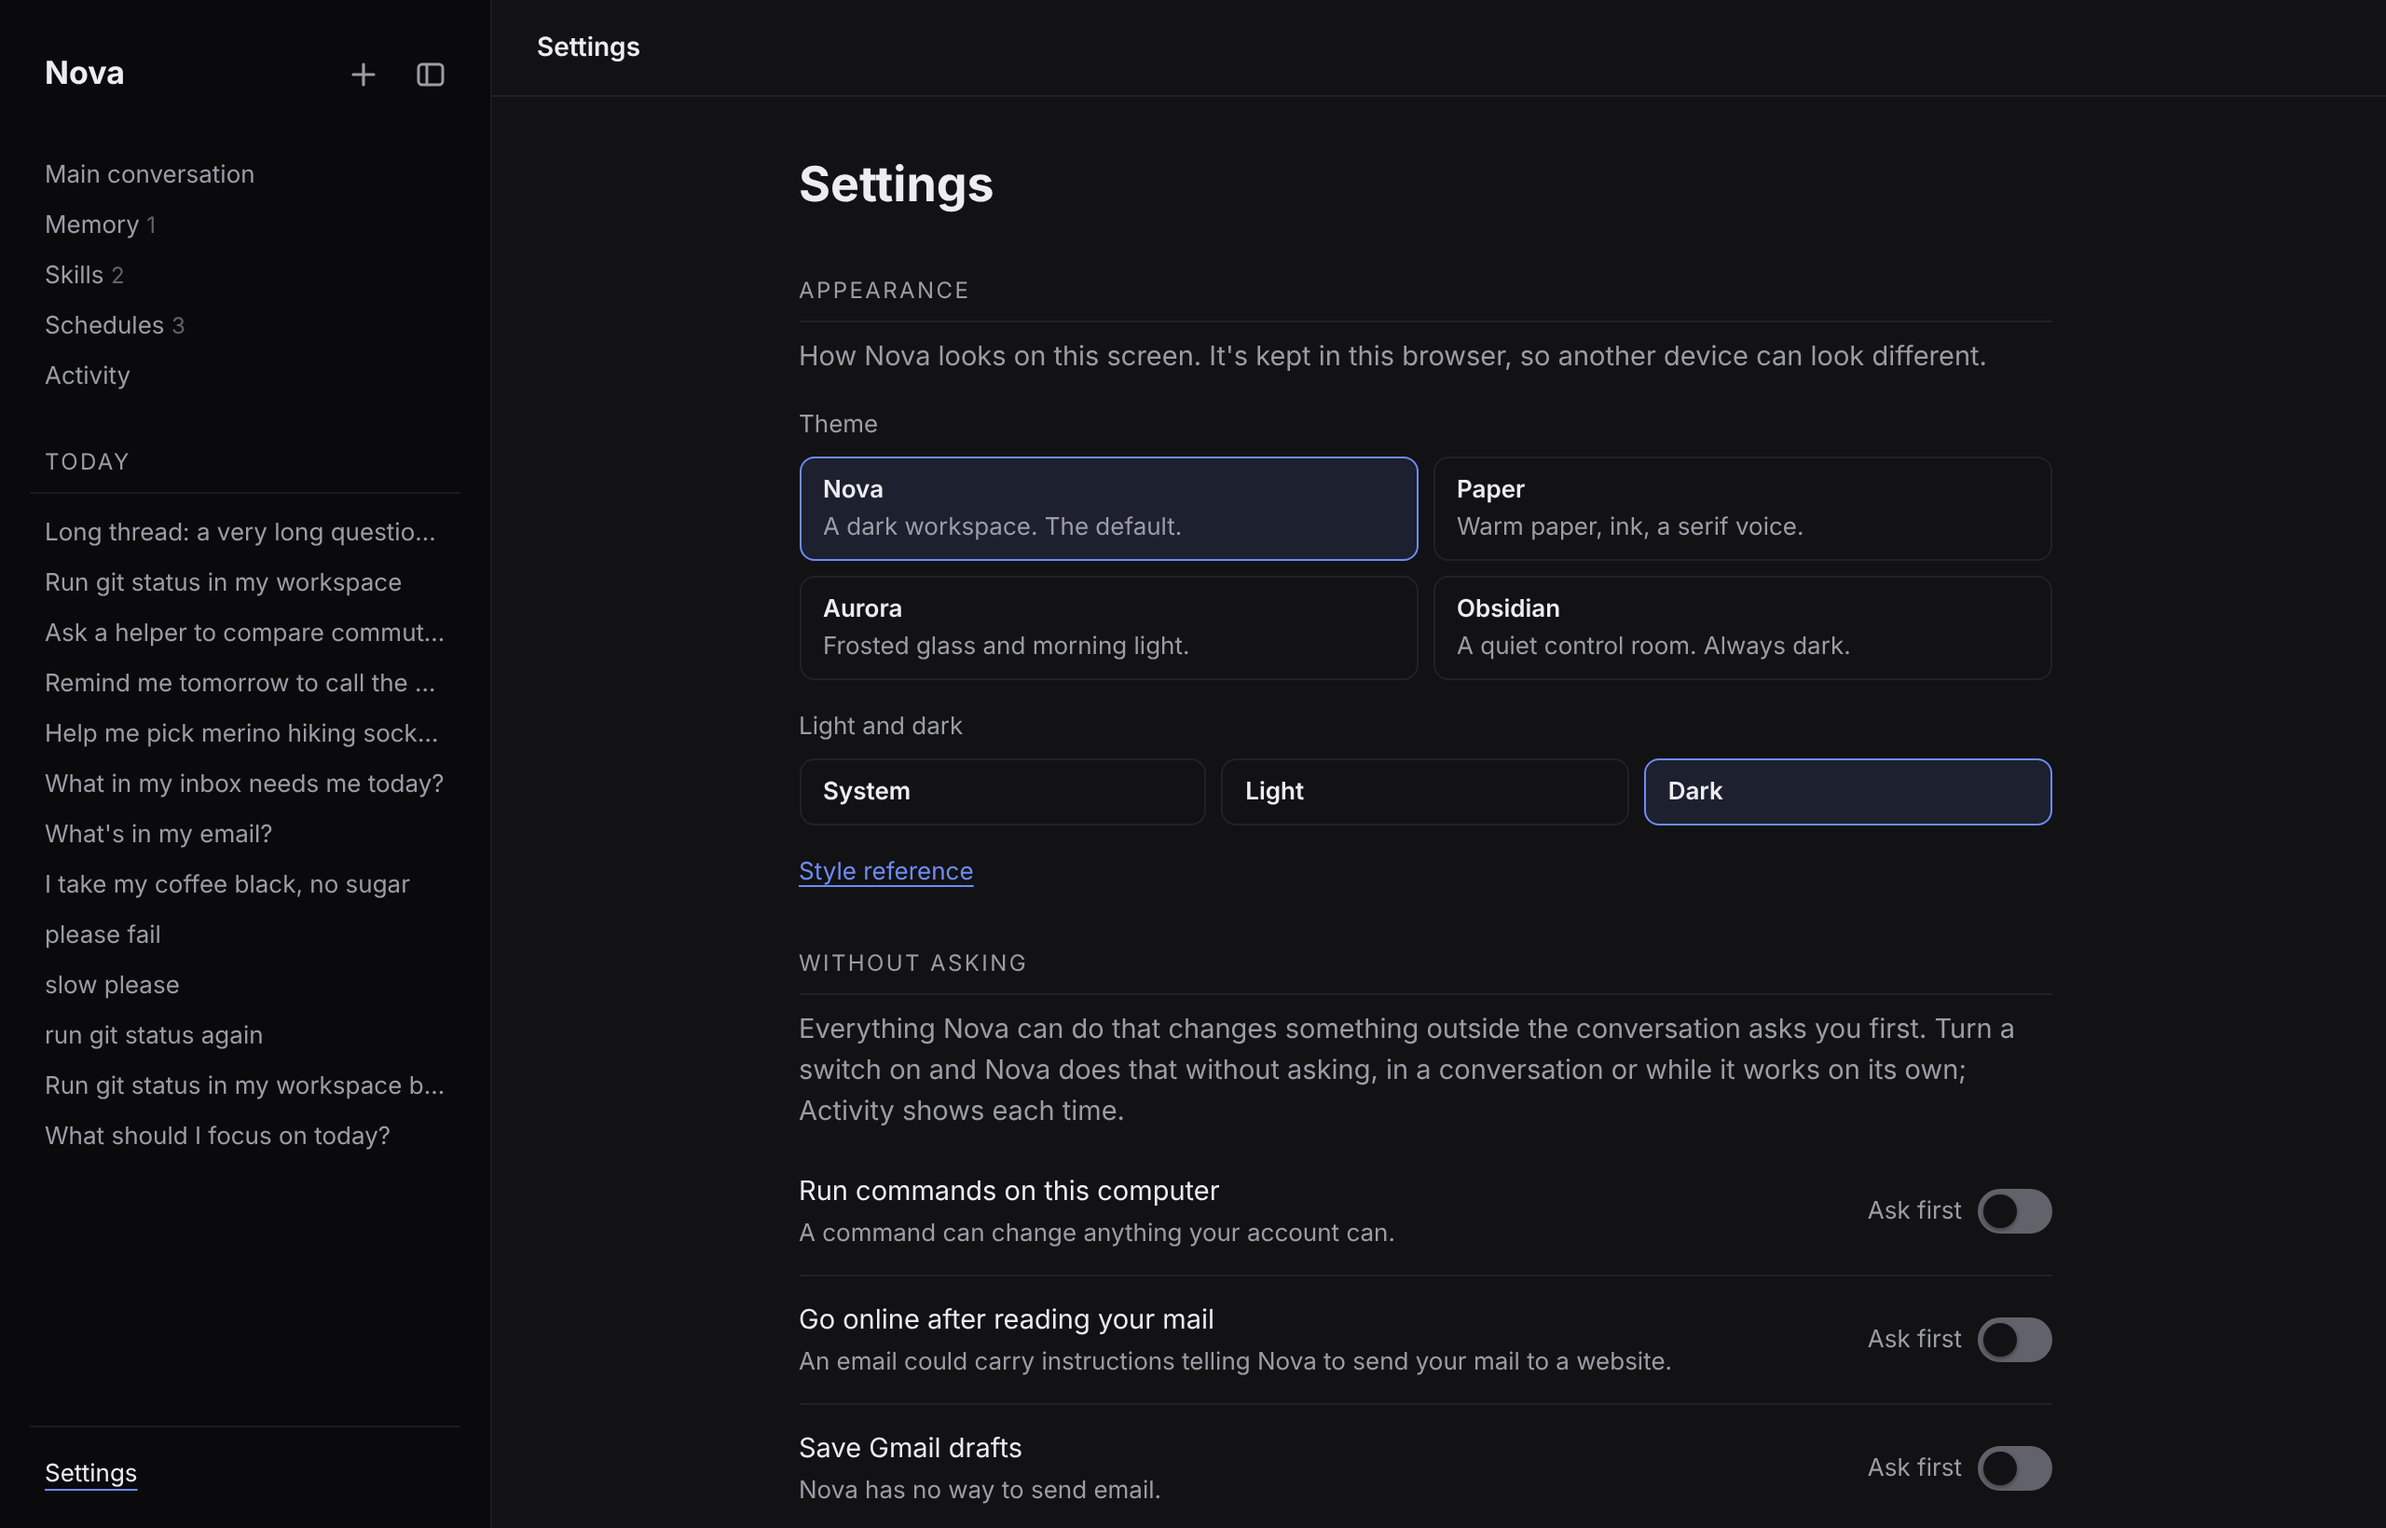
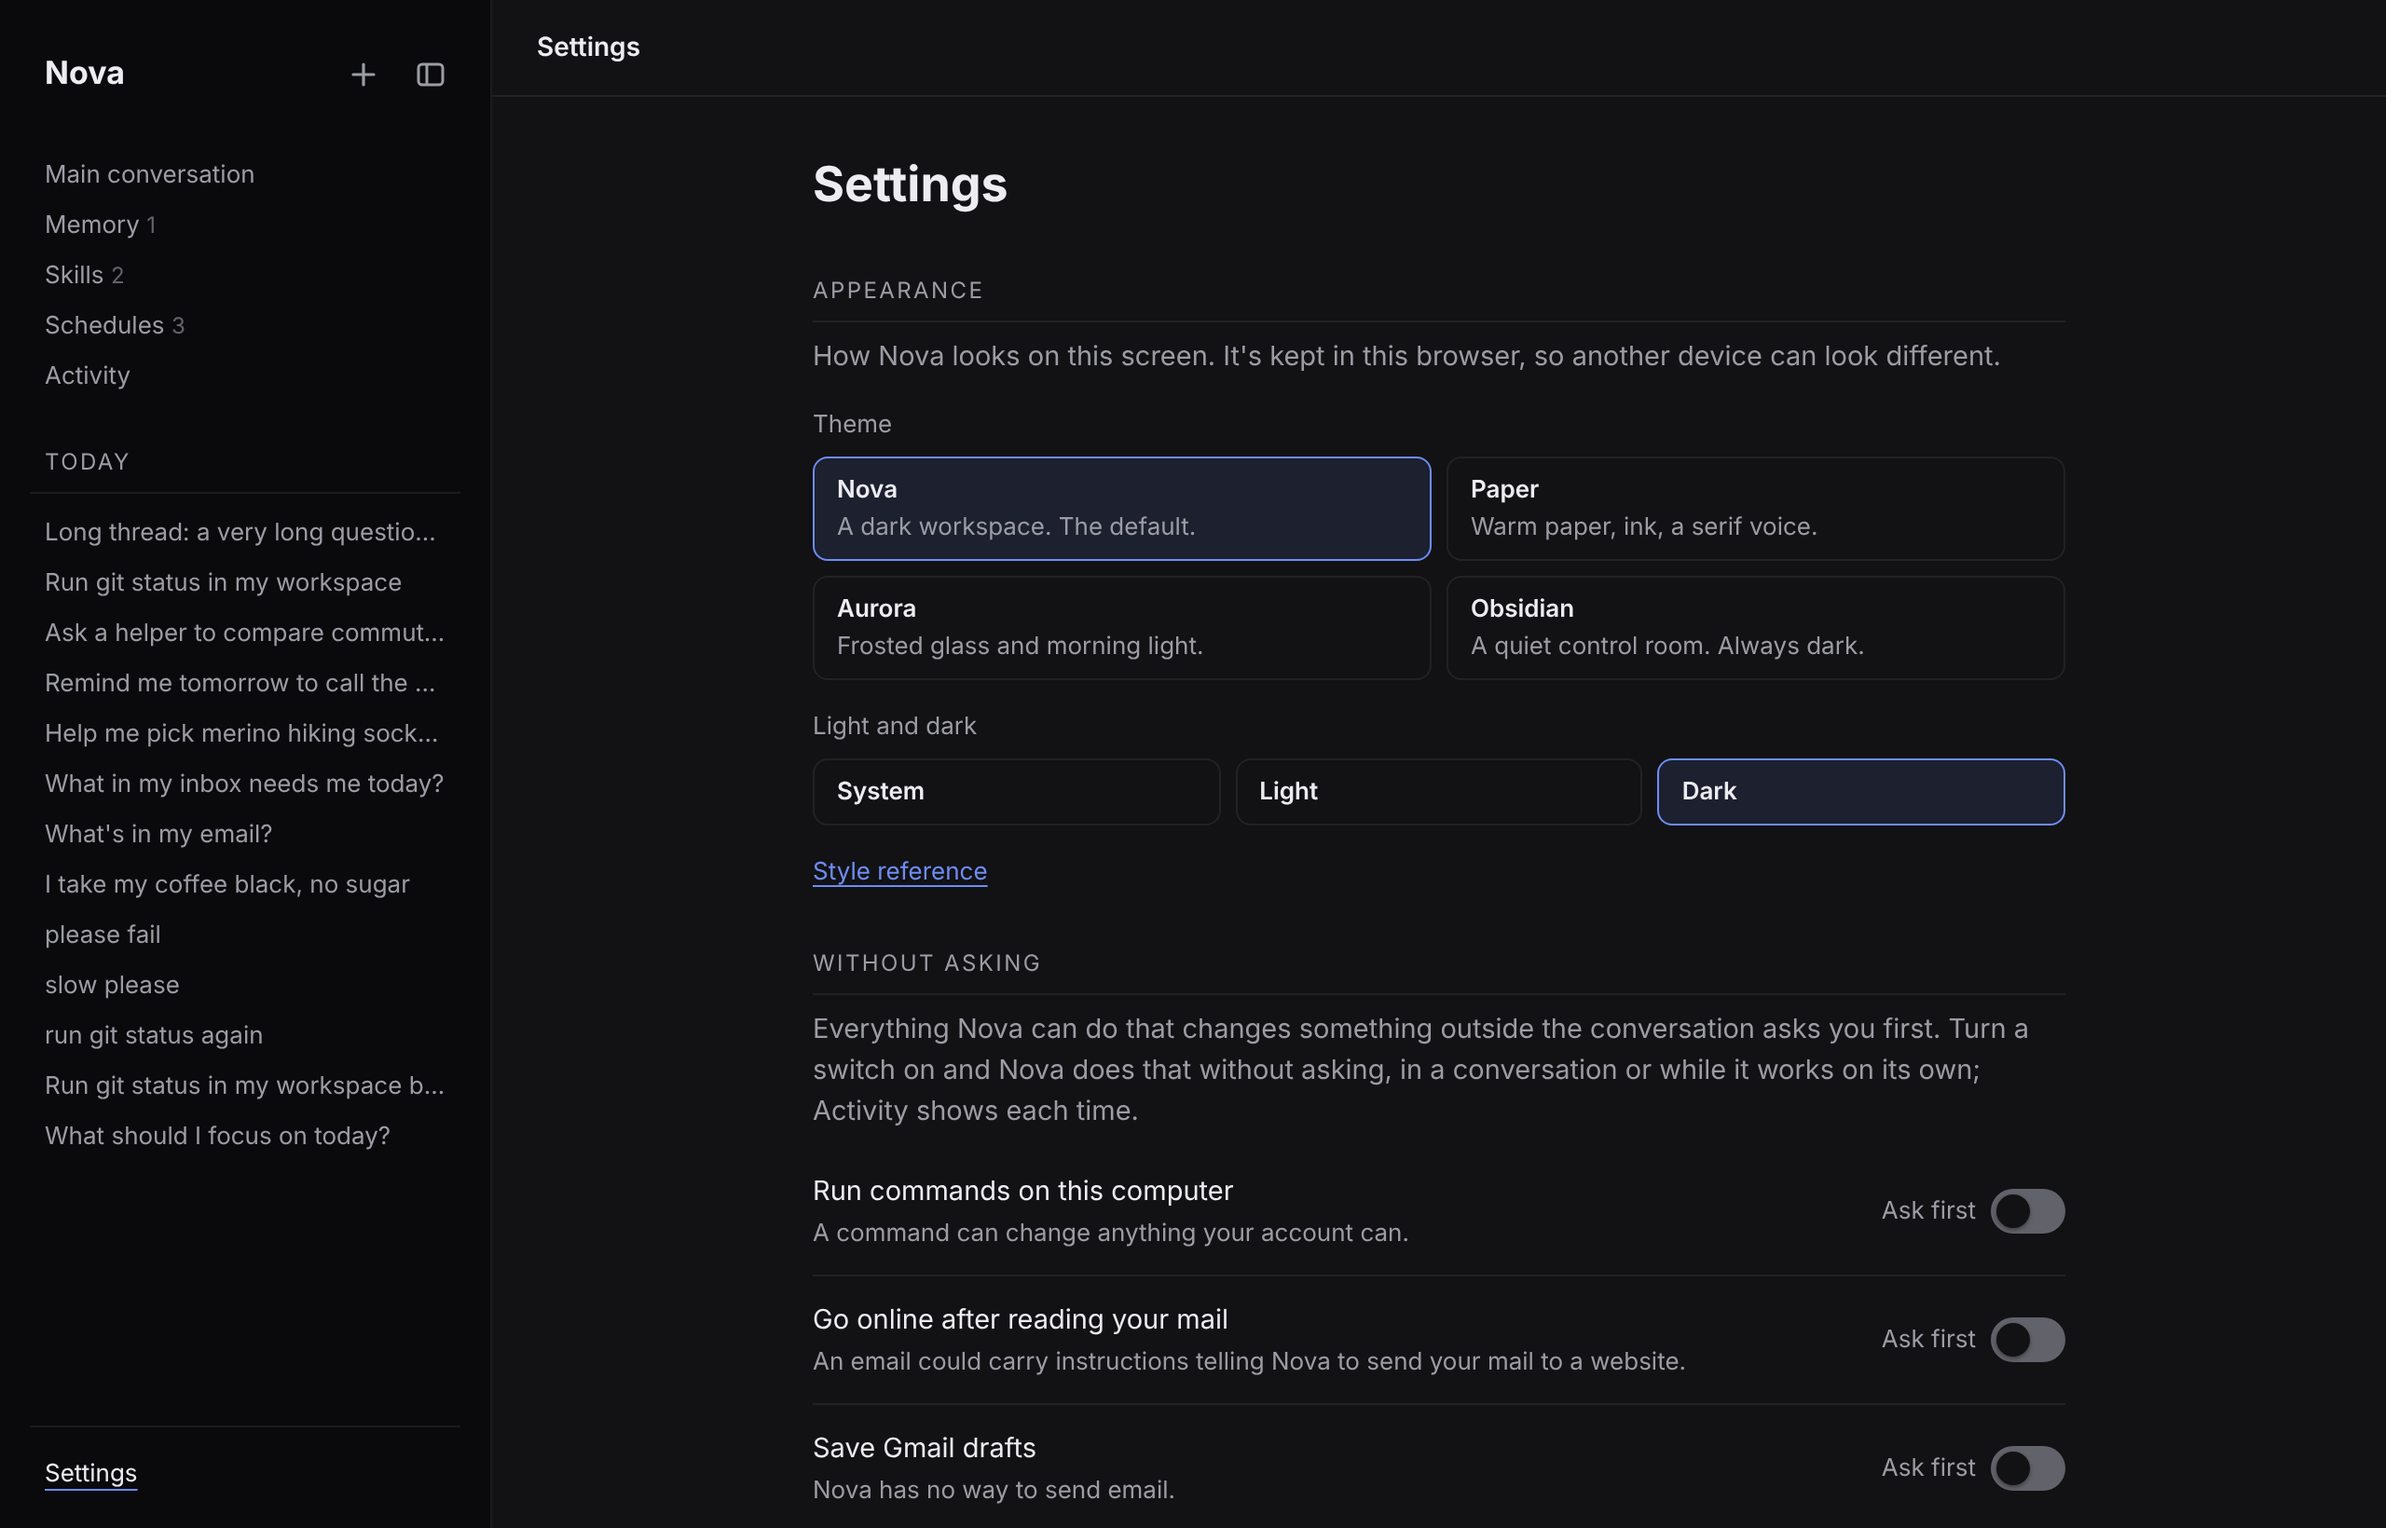
Line the composer up with the conversation at every width
The scroller reserved a scrollbar gutter on one side only, so the
column sat off-centre and the composer below it (which has no
scrollbar) ran 15px wider and further right than the conversation,
most visibly at half-screen widths. The gutter is now on both edges,
and the dock takes the scroller's measured gutter width (--gutter), so
the column and composer share both edges at any width, with classic or
overlay scrollbars.

The walkthrough checks it at 960px (half a 1920 screen) with the
sidebar open and hidden: nothing past the right edge, composer edges
equal to the column's.

Claude-Session: https://claude.ai/code/session_01Prd6Uw3mGsoG2FiFTVT4mg

diff --git a/scripts/shots.js b/scripts/shots.js
@@ -852,6 +852,24 @@ await golden({ theme: 'obsidian', mode: 'dark' }, 'obsidian');
   check('sidebar: Ctrl/⌘+\\ toggles it', byKey === 'collapsed' && await p.evaluate(() => document.documentElement.dataset.sidebar) === 'open');
   await shot(p, 'nova-sidebar-open');
   check('sidebar: no script errors', p.errors.length === 0, p.errors.join(' | '));
+  // Half a 1920 screen: nothing runs past the right edge, and the composer lines up with the column.
+  for (const sb of ['open', 'collapsed']) {
+    const h = await page({ theme: 'nova', mode: 'dark', width: 960, height: 900 });
+    await h.addInitScript((v) => localStorage.setItem('nova.sidebar', v), sb);
+    await h.goto(`${base}/c/${chat.id}`);
+    await h.waitForSelector('.prose');
+    await h.waitForTimeout(500);
+    await shot(h, `nova-half-${sb}`);
+    const fit = await h.evaluate(() => {
+      const sc = document.querySelector('.scroller');
+      const edge = sc.getBoundingClientRect().left + sc.clientWidth;
+      const past = [...document.querySelectorAll('.thread *, .dock *')].filter((e) => !e.closest('.table-wrap, pre') && e.getBoundingClientRect().right > edge + 0.5);
+      const t = document.getElementById('thread').getBoundingClientRect(), d = document.getElementById('dock').getBoundingClientRect();
+      return { past: past.length, scroll: sc.scrollWidth - sc.clientWidth, dx: [Math.round(t.left - d.left), Math.round(t.right - d.right)] };
+    });
+    check(`half screen (${sb} sidebar): nothing cut off on the right`, fit.past === 0 && fit.scroll === 0, JSON.stringify(fit));
+    check(`half screen (${sb} sidebar): the composer lines up with the conversation`, fit.dx[0] === 0 && fit.dx[1] === 0, `${fit.dx} px`);
+  }
   // A narrow screen ignores the stored choice: there the sidebar is a drawer.
   const m = await page({ theme: 'nova', mode: 'dark', width: 390, height: 844 });
   await m.addInitScript(() => localStorage.setItem('nova.sidebar', 'collapsed'));

diff --git a/ui/styles/base.css b/ui/styles/base.css
@@ -34,7 +34,6 @@ img, svg { display: block; max-width: 100%; }
   display: grid;
   grid-template-columns: 264px minmax(0, 1fr);
   height: 100dvh;
-  overflow: hidden;
   transition: grid-template-columns var(--m-med) var(--ease);
 }
 
@@ -66,7 +65,9 @@ img, svg { display: block; max-width: 100%; }
   min-height: 0;
   overflow-y: auto;
   overscroll-behavior: contain;
-  scrollbar-gutter: stable;
+  /* Both edges, so the column stays centred and lines up with the composer
+     below it; app.js measures the gutters into --gutter for the dock. */
+  scrollbar-gutter: stable both-edges;
 }
 
 .thread {
@@ -80,7 +81,7 @@ img, svg { display: block; max-width: 100%; }
 
 .dock {
   max-width: var(--column);
-  width: 100%;
+  width: calc(100% - var(--gutter, 0px)); /* as wide as the column above it */
   margin: 0 auto;
   padding: 0 var(--s5) var(--s4);
 }

diff --git a/ui/js/app.js b/ui/js/app.js
@@ -1445,6 +1445,9 @@ document.addEventListener('visibilitychange', () => { if (!document.hidden) load
 
 applyTheme();
 syncSidebar();
+// The composer lines up with the conversation: as wide as the scroller's
+// content, which is narrower by its scrollbar gutters (none for overlay scrollbars).
+new ResizeObserver(() => $('main').style.setProperty('--gutter', `${el.scroller.offsetWidth - el.scroller.clientWidth}px`)).observe(el.scroller);
 loadList();
 loadMemory();
 loadSkills();
